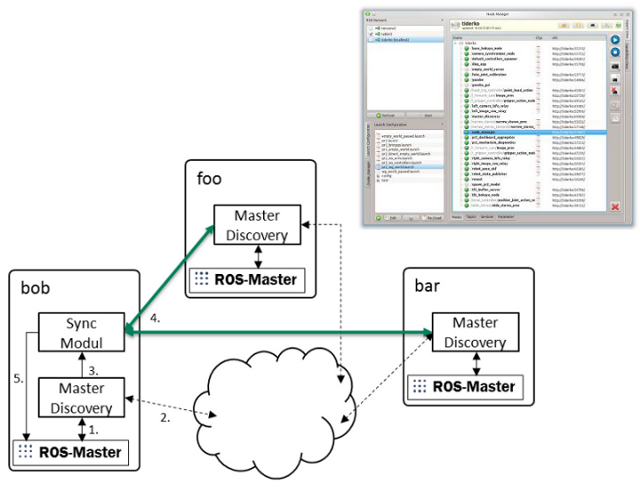
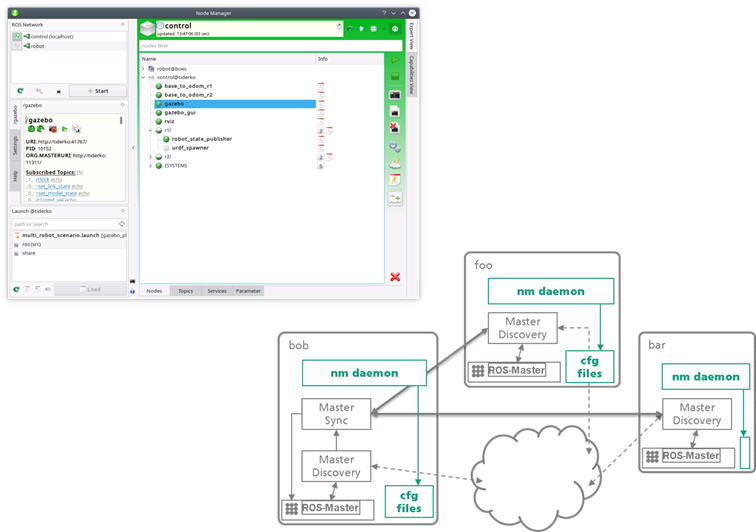
updated overview image

Changed region(s): [[0.0, 0.0, 1.0, 1.0]]

diff --git a/docs/index.html b/docs/index.html
@@ -59,7 +59,7 @@ Overview</h3>
 </ul>
 </p>
 
-<p><img src="../multimaster_overview.png" alt="ROS Multimaster"></p>
+<p><img src="images/ros_multimaster.png" alt="ROS Multimaster"></p>
 <!--pre><code>$ cd your_repo_root/repo_name
 $ git fetch origin
 $ git checkout gh-pages
